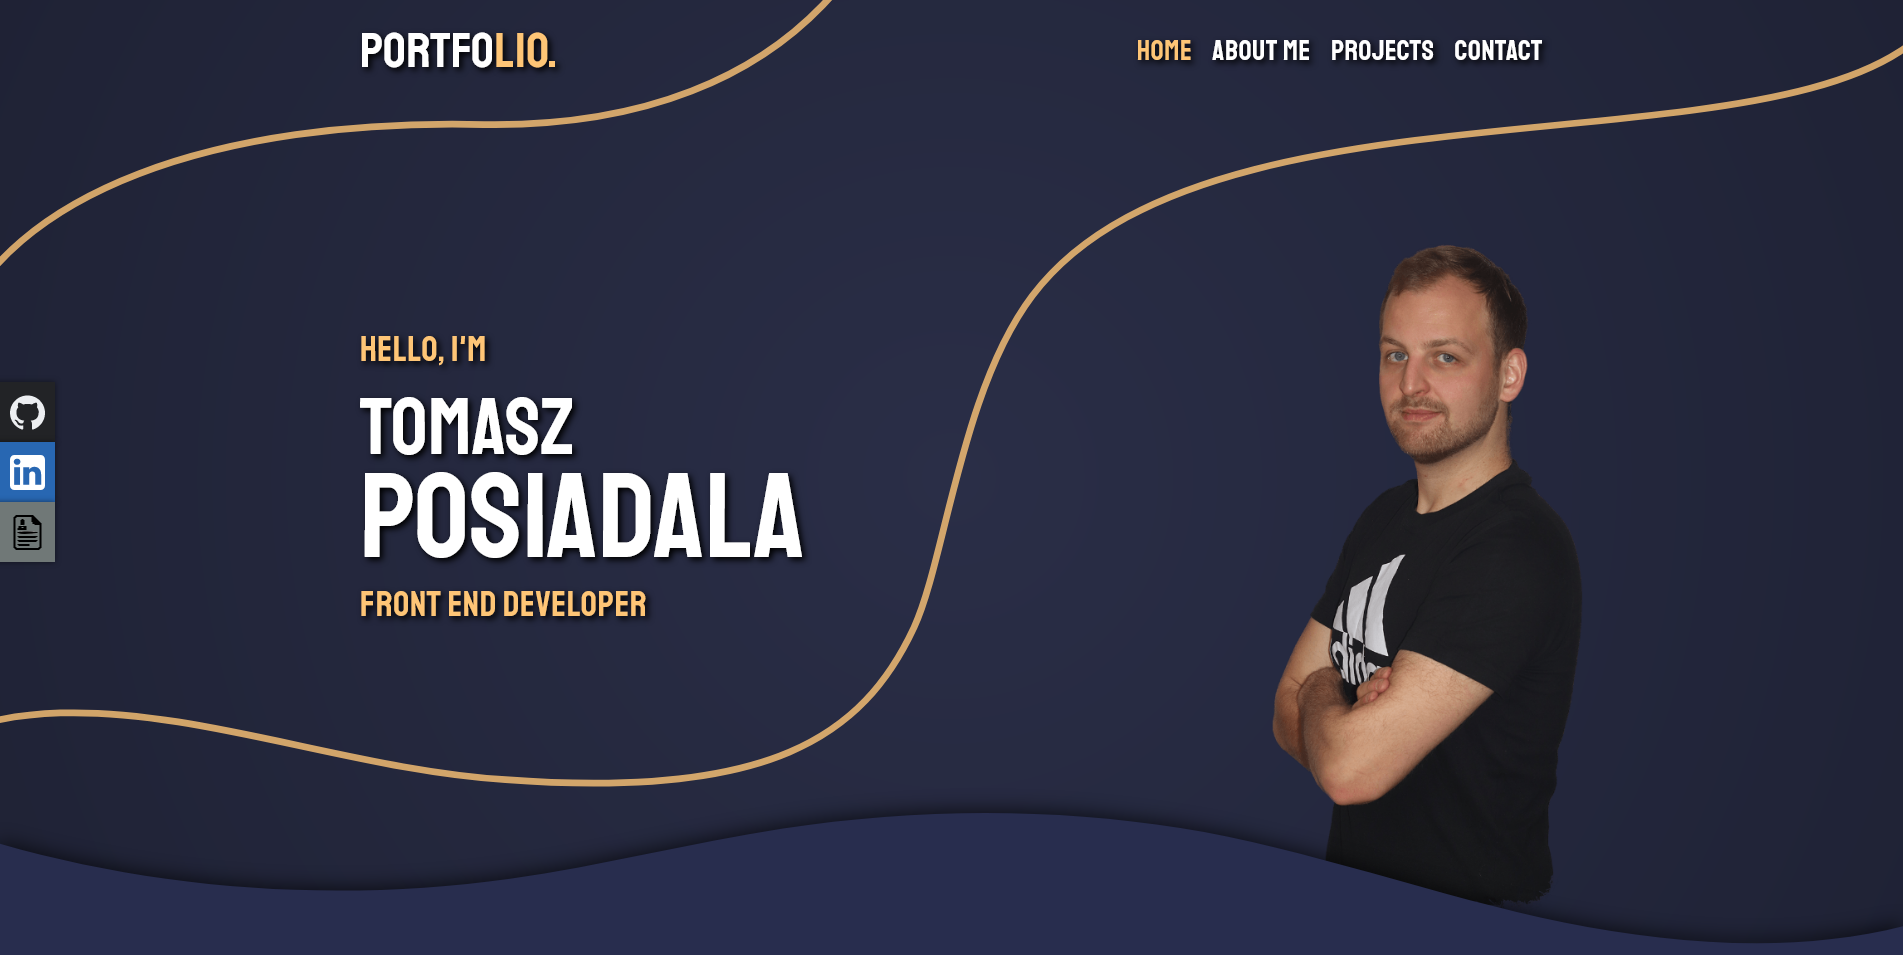
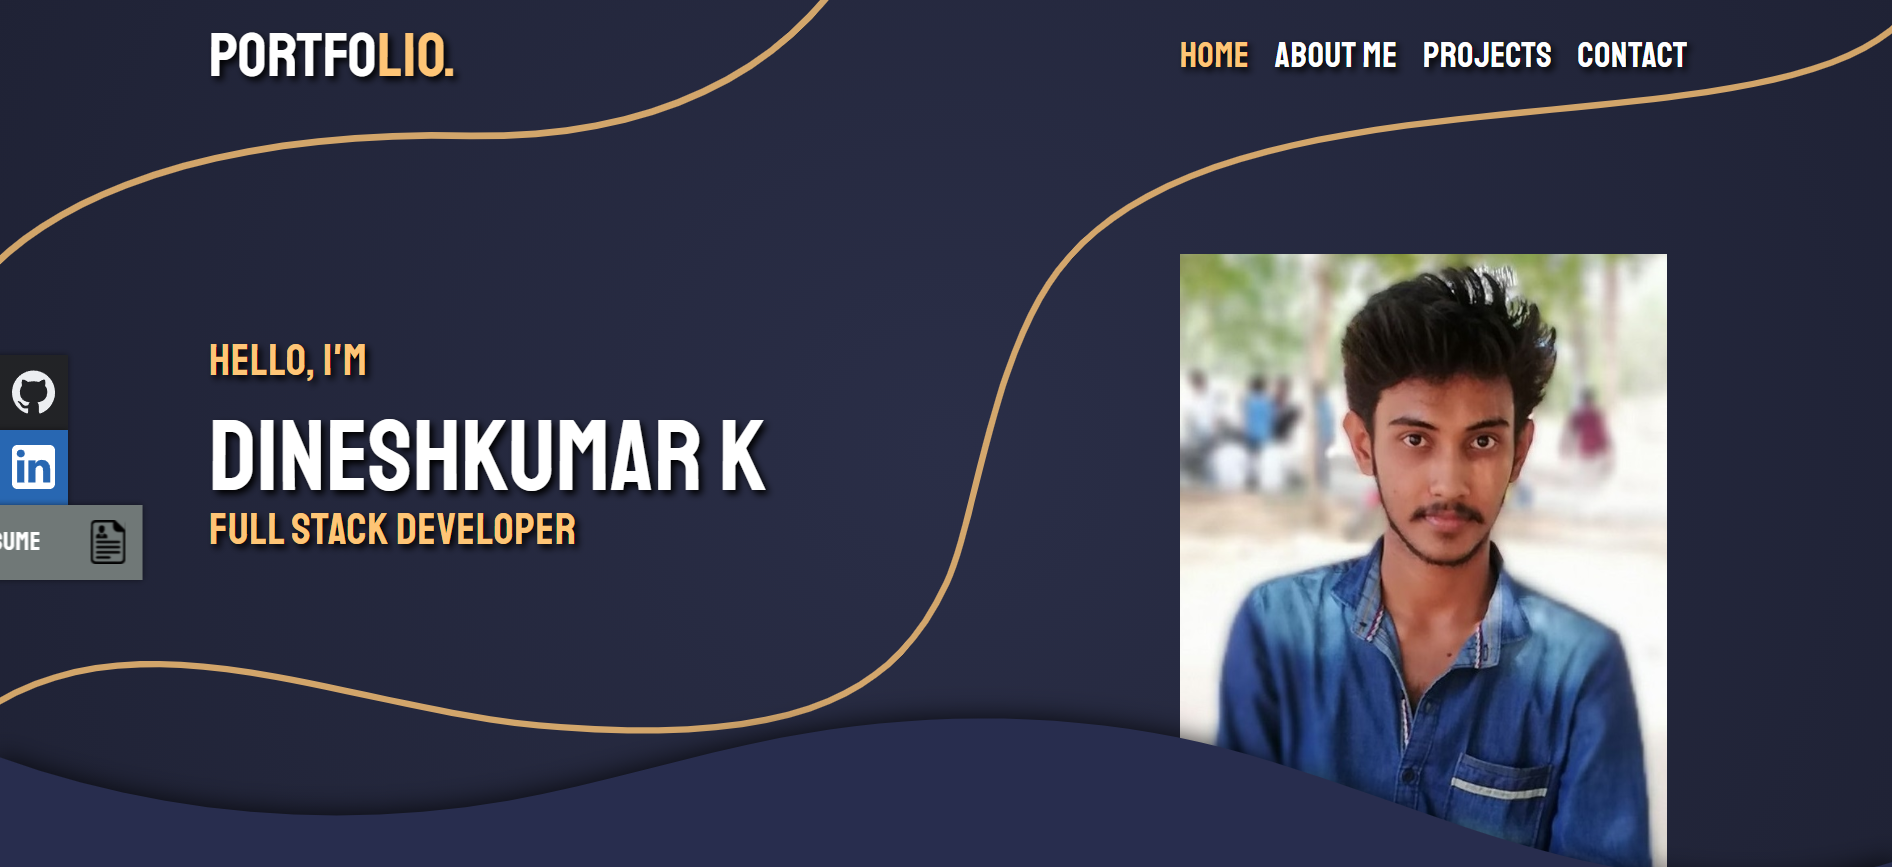
Optimised For Netlify

diff --git a/public/index.html b/public/index.html
@@ -18,10 +18,10 @@
     
     <title>DINESHKUMAR Portfolio</title>
 
-    <meta property='og:title' content='Tomasz Posiadala Portfolio'/>
+    <meta property='og:title' content='DINESHKUMAR Portfolio'/>
   <meta property='og:image' content='%PUBLIC_URL%/homeImage.png'/>
-  <meta property='og:description' content='Tomasz Posiadala portfolio website featuring his best past and recent work.'/>
-  <meta property='og:url' content='http://www.tomaszposiadala.com'/>
+  <meta property='og:description' content='DINESHKUMAR portfolio website featuring his best past and recent work.'/>
+  <meta property='og:url' content='https://dineshdevlpr-portfolio.netlify.app/'/>
   </head>
   <body>
 
